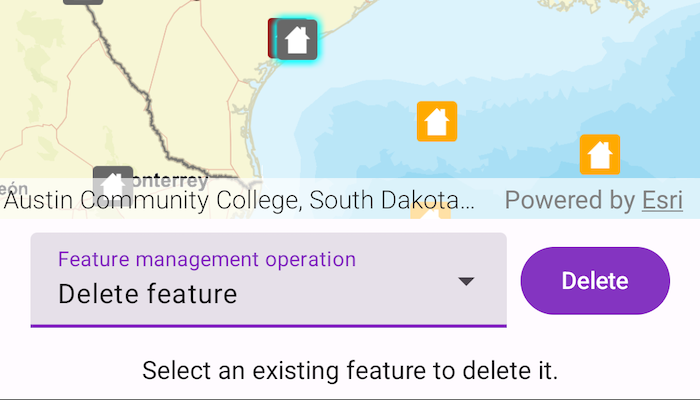
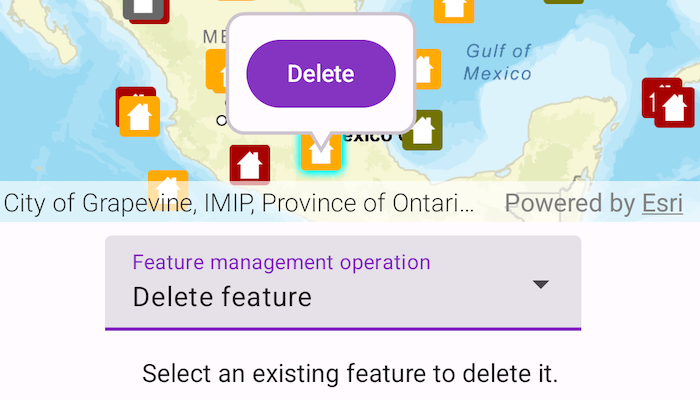
PR fixes

diff --git a/samples/manage-features/src/main/java/com/esri/arcgismaps/sample/managefeatures/components/ManageFeaturesViewModel.kt b/samples/manage-features/src/main/java/com/esri/arcgismaps/sample/managefeatures/components/ManageFeaturesViewModel.kt
@@ -55,19 +55,8 @@ class ManageFeaturesViewModel(application: Application) : AndroidViewModel(appli
     // Hold a reference to the selected feature.
     var selectedFeature: ArcGISFeature? by mutableStateOf(null)
 
-    // The list of feature operations shown in this sample.
-    val manageFeaturesList = listOf("Create feature", "Delete feature", "Update attribute", "Update geometry")
-
     // The current feature operation to perform.
-    var currentFeatureOperation by mutableStateOf(manageFeaturesList[0])
-
-    // Instructions associated with each feature operation.
-    val instructionsList = listOf(
-        "Tap on the map to create a new feature.",
-        "Select an existing feature to delete it.",
-        "Select an existing feature to edit its attribute.",
-        "Select an existing feature and tap the map to move it to a new position."
-    )
+    var currentFeatureOperation by mutableStateOf(FeatureOperationType.CREATE)
 
     // The list of damage types to update the feature attribute.
     var damageTypeList: List<String> = mutableListOf()
@@ -145,10 +134,10 @@ class ManageFeaturesViewModel(application: Application) : AndroidViewModel(appli
             return
         }
         when (currentFeatureOperation) {
-            manageFeaturesList[0] -> createFeatureAt(singleTapConfirmedEvent.screenCoordinate)
-            manageFeaturesList[1] -> deleteFeatureAt(singleTapConfirmedEvent.screenCoordinate)
-            manageFeaturesList[2] -> selectFeatureForAttributeEditAt(singleTapConfirmedEvent.screenCoordinate)
-            manageFeaturesList[3] -> updateFeatureGeometryAt(singleTapConfirmedEvent.screenCoordinate)
+            FeatureOperationType.CREATE -> createFeatureAt(singleTapConfirmedEvent.screenCoordinate)
+            FeatureOperationType.DELETE -> deleteFeatureAt(singleTapConfirmedEvent.screenCoordinate)
+            FeatureOperationType.UPDATE_ATTRIBUTE -> selectFeatureForAttributeEditAt(singleTapConfirmedEvent.screenCoordinate)
+            FeatureOperationType.UPDATE_GEOMETRY -> updateFeatureGeometryAt(singleTapConfirmedEvent.screenCoordinate)
         }
     }
 
@@ -157,7 +146,7 @@ class ManageFeaturesViewModel(application: Application) : AndroidViewModel(appli
      * selection.
      */
     fun onFeatureOperationSelected(index: Int) {
-        currentFeatureOperation = manageFeaturesList[index]
+        currentFeatureOperation = FeatureOperationType.entries[index]
         // Reset the selected feature when the operation changes.
         damageLayer?.clearSelection()
         selectedFeature = null
@@ -202,7 +191,7 @@ class ManageFeaturesViewModel(application: Application) : AndroidViewModel(appli
             viewModelScope.launch {
                 // Determine if a user tapped on a feature.
                 mapViewProxy.identify(damageLayer, screenCoordinate, 10.dp).onSuccess { identifyResult ->
-                    selectedFeature = (identifyResult.geoElements.firstOrNull() as ArcGISFeature).also {
+                    selectedFeature = (identifyResult.geoElements.firstOrNull() as? ArcGISFeature)?.also {
                         damageLayer.selectFeature(it)
                     }
                 }
@@ -335,4 +324,11 @@ class ManageFeaturesViewModel(application: Application) : AndroidViewModel(appli
             }
         }
     }
+}
+
+enum class FeatureOperationType(val operationName: String, val instruction: String) {
+    CREATE("Create feature", "Tap on the map to create a new feature."),
+    DELETE("Delete feature", "Select an existing feature to delete it."),
+    UPDATE_ATTRIBUTE("Update attribute", "Select an existing feature to edit its attribute."),
+    UPDATE_GEOMETRY("Update geometry", "Select an existing feature and tap the map to move it to a new position.")
 }

diff --git a/samples/manage-features/src/main/java/com/esri/arcgismaps/sample/managefeatures/screens/ManageFeaturesScreen.kt b/samples/manage-features/src/main/java/com/esri/arcgismaps/sample/managefeatures/screens/ManageFeaturesScreen.kt
@@ -40,6 +40,7 @@ import androidx.compose.ui.text.style.TextAlign
 import androidx.compose.ui.unit.dp
 import androidx.lifecycle.viewmodel.compose.viewModel
 import com.arcgismaps.toolkit.geoviewcompose.MapView
+import com.esri.arcgismaps.sample.managefeatures.components.FeatureOperationType
 import com.esri.arcgismaps.sample.managefeatures.components.ManageFeaturesViewModel
 import com.esri.arcgismaps.sample.sampleslib.components.DropDownMenuBox
 import com.esri.arcgismaps.sample.sampleslib.components.MessageDialog
@@ -82,7 +83,7 @@ fun ManageFeaturesScreen(sampleName: String) {
                 ) {
                     mapViewModel.selectedFeature?.let { selectedFeature ->
                         // Only show the delete button when on the delete feature operation and a feature is selected.
-                        if (mapViewModel.currentFeatureOperation == mapViewModel.manageFeaturesList[1]) {
+                        if (mapViewModel.currentFeatureOperation == FeatureOperationType.DELETE) {
                             Callout(geoElement = selectedFeature) {
                                 Button(onClick = mapViewModel::deleteSelectedFeature) {
                                     Text(text = "Delete")
@@ -90,7 +91,7 @@ fun ManageFeaturesScreen(sampleName: String) {
                             }
                         }
                         // Only show the dropdown for damage type when on the update feature operation.
-                        if (mapViewModel.currentFeatureOperation == mapViewModel.manageFeaturesList[2]) {
+                        if (mapViewModel.currentFeatureOperation == FeatureOperationType.UPDATE_ATTRIBUTE) {
                             Callout(geoElement = selectedFeature) {
                                 DropDownMenuBox(
                                     modifier = Modifier
@@ -121,8 +122,8 @@ fun ManageFeaturesScreen(sampleName: String) {
                     DropDownMenuBox(
                         modifier = Modifier.padding(end = 8.dp),
                         textFieldLabel = "Feature management operation",
-                        textFieldValue = mapViewModel.currentFeatureOperation,
-                        dropDownItemList = mapViewModel.manageFeaturesList,
+                        textFieldValue = mapViewModel.currentFeatureOperation.operationName,
+                        dropDownItemList = FeatureOperationType.entries.map { entry -> entry.operationName },
                         onIndexSelected = { index ->
                             mapViewModel.onFeatureOperationSelected(index)
                             featureManagementDropdownIndex = index
@@ -130,7 +131,7 @@ fun ManageFeaturesScreen(sampleName: String) {
                 }
                 // Show instructions for the current feature operation.
                 Text(
-                    text = mapViewModel.instructionsList[featureManagementDropdownIndex],
+                    text = FeatureOperationType.entries[featureManagementDropdownIndex].instruction,
                     textAlign = TextAlign.Center,
                     style = MaterialTheme.typography.bodyMedium,
                     modifier = Modifier
